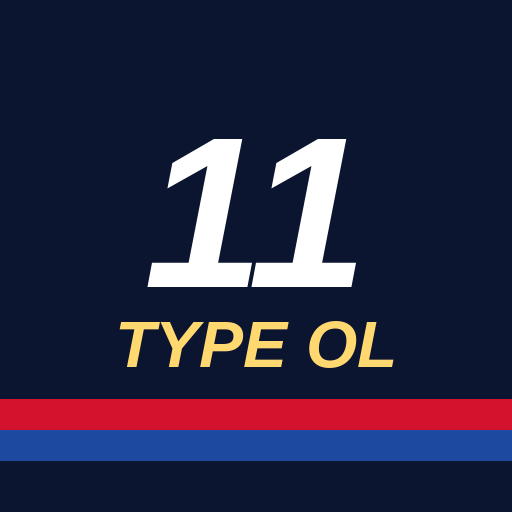
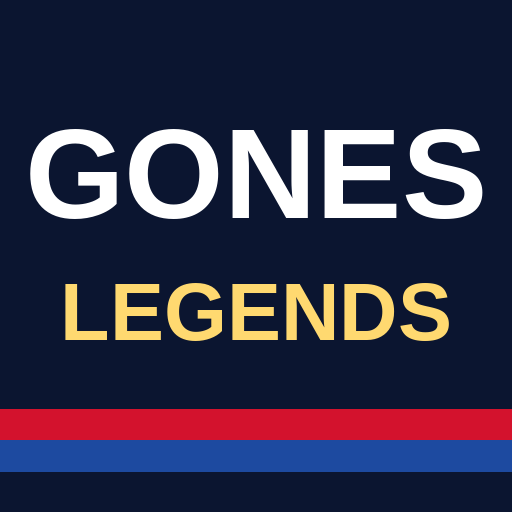
Nouveau nom : Les Gones Legends
Claude-Session: https://claude.ai/code/session_014bWuiPShrCqQyYskQc5RoJ

Changed region(s): [[0.0312, 0.25, 0.9375, 0.7188], [0.0, 0.7812, 1.0, 0.9375]]

diff --git a/index.html b/index.html
@@ -5,8 +5,8 @@
 <meta name="viewport" content="width=device-width, initial-scale=1, viewport-fit=cover">
 <meta name="theme-color" content="#0b1530">
 <meta name="apple-mobile-web-app-capable" content="yes">
-<meta name="apple-mobile-web-app-title" content="11 type OL">
-<title>Notre 11 type OL</title>
+<meta name="apple-mobile-web-app-title" content="Gones Legends">
+<title>Les Gones Legends</title>
 <link rel="manifest" href="manifest.json">
 <link rel="apple-touch-icon" href="icon-180.png">
 <style>
@@ -394,7 +394,7 @@ select,input[type=search]{background:var(--carte);color:var(--txt);border:1px so
 </head>
 <body>
 <div id="start">
-  <h1>Notre 11 type <span style="color:var(--rouge)">OL</span></h1>
+  <h1>Les Gones <span style="color:var(--rouge)">Legends</span></h1>
   <p id="aTitle">Connecte-toi pour jouer</p>
   <form class="auth" id="authForm" autocomplete="on">
     <input id="aName" name="username" placeholder="Pseudo" maxlength="16" autocomplete="username" autocapitalize="off">
@@ -408,7 +408,7 @@ select,input[type=search]{background:var(--carte);color:var(--txt);border:1px so
 
 <header>
   <button class="who" id="who">Changer</button><button class="coins" id="coins" style="display:none"></button>
-  <h1>Notre 11 type <span>OL</span></h1>
+  <h1>Les Gones <span>Legends</span></h1>
   <div class="sub">Tous les joueurs passés par Lyon depuis 2000</div>
   <div class="sync" id="sync">Connexion…</div>
 </header>
@@ -787,7 +787,7 @@ $("#aSignup").onclick=async()=>{
   pendingName=n;
   try{ $("#aSignup").disabled=true; await firebase.auth().createUserWithEmailAndPassword(pseudoEmail(n),pw); }catch(err){ pendingName=null; $("#aMsg").textContent=authErr(err); }
   $("#aSignup").disabled=false; };
-$("#shareBtn").onclick=async()=>{ const url=location.origin+location.pathname; try{ if(navigator.share){ await navigator.share({title:"Notre 11 type OL",text:"Crée ton compte, fais ton 11 type de l'OL et viens me défier !",url}); return; } }catch(e){ return; } try{ await navigator.clipboard.writeText(url); toast("Lien copié !"); }catch(e){ toast(url); } };
+$("#shareBtn").onclick=async()=>{ const url=location.origin+location.pathname; try{ if(navigator.share){ await navigator.share({title:"Les Gones Legends",text:"Crée ton compte, fais ton 11 type de l'OL et viens me défier !",url}); return; } }catch(e){ return; } try{ await navigator.clipboard.writeText(url); toast("Lien copié !"); }catch(e){ toast(url); } };
 $("#who").onclick=()=>openModal(`Connecté en tant que ${NAMES[me]||"?"}`,null,[[notifState()==="granted"?"🔔 Notifications activées":"🔔 Activer les notifications",()=>{ enableNotifs(); }],["📲 Installer l'appli",()=>{ setTimeout(()=>installGuide(true),200); }],["💡 Revoir les explications",()=>{ resetTips(); }],["Se déconnecter",()=>{ firebase.auth().signOut(); }],["Inviter quelqu'un",()=>$("#shareBtn").click(),true],["Fermer",null,true]]);
 
 // ---------- Rendu ----------
@@ -2772,7 +2772,7 @@ function renderJeux(){
 
 // ---------- 💡 Explications au premier contact ----------
 const TIPS={
- welcome:{t:"👋 Bienvenue dans Notre 11 type OL !",x:`Construis l'équipe ultime de l'OL avec tous les joueurs passés par Lyon depuis 2000.<br><br>
+ welcome:{t:"👋 Bienvenue dans Les Gones Legends !",x:`Construis l'équipe ultime de l'OL avec tous les joueurs passés par Lyon depuis 2000.<br><br>
   🎴 <b>Collectionne</b> des cartes en ouvrant des packs (un gratuit chaque jour).<br>⚽ <b>Compose</b> ton 11 type avec les cartes que tu possèdes.<br>
   🏟 <b>Affronte</b> tes potes ou l'ordi dans des matchs simulés en direct.<br>🪙 <b>Gagne des pièces</b> à chaque match pour acheter d'autres packs.<br><br>
   Tu as reçu un <b>pack de départ</b> : une équipe complète est déjà dans ton 11 type. À chaque nouvel écran, une petite explication s'affichera.`},
@@ -2852,13 +2852,13 @@ function installGuide(force){
   if(P.inApp){ head="Ouvre d'abord le lien dans ton navigateur"; steps=[`Touche les <b>⋯</b> ou le bouton de partage de l'appli où tu as ouvert le lien`,`Choisis <b>« Ouvrir dans ${P.ios?"Safari":"le navigateur"} »</b>`,`Puis suis les étapes pour l'ajouter à l'écran d'accueil`]; }
   else if(P.ios){ head=P.iosOther?"Sur iPhone (Chrome / autre navigateur)":"Sur iPhone (Safari)";
     steps=[P.iosOther?`Touche le bouton <b>Partager <span class="igk">⬆</span></b> dans la barre d'adresse`:`Touche le bouton <b>Partager <span class="igk">⬆</span></b> (le carré avec la flèche, en bas de l'écran)`,
-      `Fais défiler et choisis <b>« Sur l'écran d'accueil » <span class="igk">➕</span></b>`,`Touche <b>« Ajouter »</b> en haut à droite`,`Ouvre l'appli depuis la nouvelle icône <b>11 type OL</b> 🎉 (il faudra te reconnecter une fois avec ton pseudo)`]; }
+      `Fais défiler et choisis <b>« Sur l'écran d'accueil » <span class="igk">➕</span></b>`,`Touche <b>« Ajouter »</b> en haut à droite`,`Ouvre l'appli depuis la nouvelle icône <b>Gones Legends</b> 🎉 (il faudra te reconnecter une fois avec ton pseudo)`]; }
   else if(P.samsung){ head="Sur Android (Samsung Internet)"; steps=[`Touche le menu <b><span class="igk">☰</span></b> en bas à droite`,`Choisis <b>« Ajouter la page à »</b> puis <b>« Écran d'accueil »</b>`,`Confirme avec <b>« Ajouter »</b>`]; }
   else if(P.android){ head="Sur Android (Chrome)"; steps=[`Touche le menu <b><span class="igk">⋮</span></b> en haut à droite`,`Choisis <b>« Ajouter à l'écran d'accueil »</b> ou <b>« Installer l'application »</b>`,`Confirme avec <b>« Installer »</b> ou <b>« Ajouter »</b>`]; }
   else { head="Sur ordinateur"; steps=[`Dans Chrome ou Edge, clique sur l'icône <b>Installer</b> à droite de la barre d'adresse`,`Sinon, ajoute simplement la page à tes favoris`]; }
   const was=tipOpen; tipOpen=true;
   const el=document.createElement("div"); el.className="tipov"; el.style.zIndex=130;
-  el.innerHTML=`<div class="tipbox"><h3>📲 Installe l'appli sur ton téléphone</h3><div class="tipx">Ajoute <b>Notre 11 type OL</b> à ton écran d'accueil : elle s'ouvrira en plein écran comme une vraie appli${P.ios?", et c'est obligatoire sur iPhone pour recevoir les notifications":""}.</div>
+  el.innerHTML=`<div class="tipbox"><h3>📲 Installe l'appli sur ton téléphone</h3><div class="tipx">Ajoute <b>Les Gones Legends</b> à ton écran d'accueil : elle s'ouvrira en plein écran comme une vraie appli${P.ios?", et c'est obligatoire sur iPhone pour recevoir les notifications":""}.</div>
     <h4 style="margin:0 0 8px">${head}</h4><ol class="igsteps">${steps.map(s=>`<li>${s}</li>`).join("")}</ol>
     <button class="btn big" id="igInstall" style="${installEvt?"":"display:none"}">📲 Installer maintenant</button>
     <button class="btn ${installEvt?"ghost":""} big" id="igOk">${installEvt?"Plus tard":"OK, compris"}</button>

diff --git a/firebase-messaging-sw.js b/firebase-messaging-sw.js
@@ -13,7 +13,7 @@ const messaging = firebase.messaging();
 messaging.onBackgroundMessage(payload => {
   const d = payload.data || {};
   if (payload.notification) return; // déjà affichée par le navigateur
-  self.registration.showNotification(d.title || "11 type OL", { body: d.body || "", icon: "icon-192.png", badge: "icon-192.png", data: { url: d.url || "./" } });
+  self.registration.showNotification(d.title || "Les Gones Legends", { body: d.body || "", icon: "icon-192.png", badge: "icon-192.png", data: { url: d.url || "./" } });
 });
 self.addEventListener("notificationclick", e => {
   e.notification.close();

diff --git a/functions/index.js b/functions/index.js
@@ -1,4 +1,4 @@
-// Notifications push de « Notre 11 type OL » (Cloud Functions v2)
+// Notifications push de « Les Gones Legends » (Cloud Functions v2)
 const { onDocumentWritten, onDocumentCreated, onDocumentUpdated } = require("firebase-functions/v2/firestore");
 const { initializeApp } = require("firebase-admin/app");
 const { getFirestore, FieldValue } = require("firebase-admin/firestore");

diff --git a/README.md b/README.md
@@ -1,4 +1,4 @@
-# Notre 11 type OL
+# Les Gones Legends
 
 Jeu ouvert à tous (profils créés à l'ouverture) : chacun compose son 11 type de l'Olympique Lyonnais (joueurs passés par le club depuis 2000), avec remplaçants et entraîneur. Les compos se synchronisent en direct (Firebase, projet partagé avec « Mon héroïne », document `families/ONZE-OL-THBVAL`).
 
